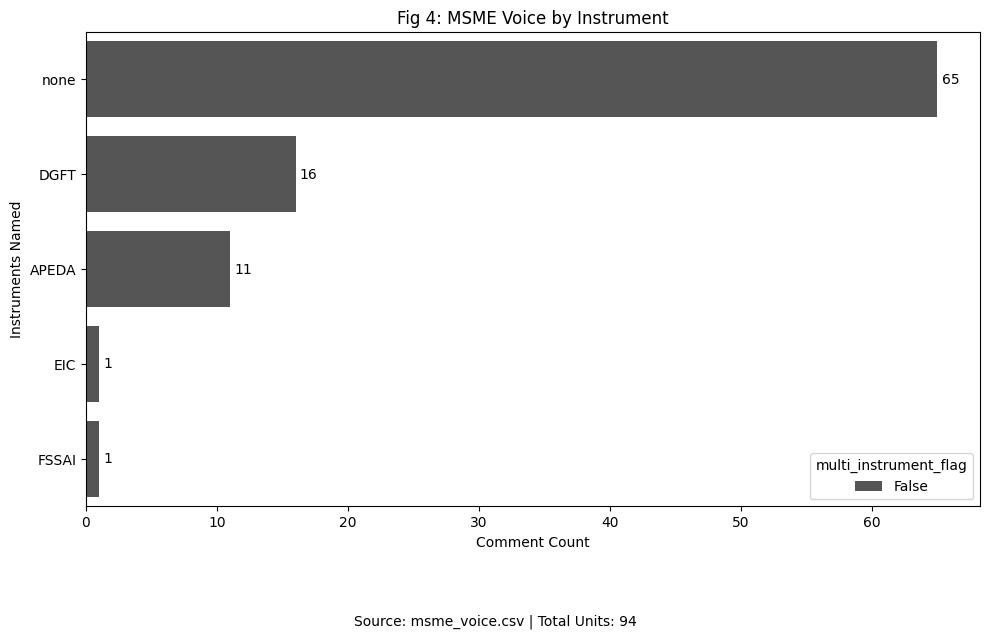
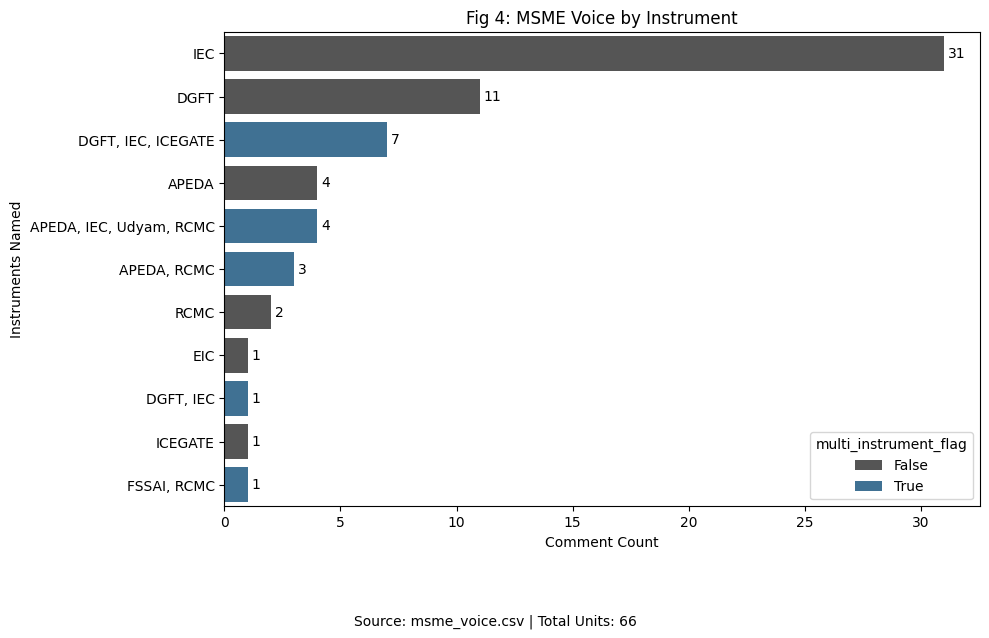
Update MSME voice generation with explicit instrument filtering rules

diff --git a/src/data-processing/generate_msme_voice.py b/src/data-processing/generate_msme_voice.py
@@ -12,7 +12,7 @@ def main():
     udyam_verified = ["B-YT-024", "B-YT-026", "B-YT-027", "B-YT-032"]
     
     # Identify multi-instrument keywords
-    instrument_keywords = ["FSSAI", "APEDA", "MPEDA", "DGFT", "Spices Board", "EIC", "EUDR", "CSDDD", "TraceNet", "CSRD", "FDA"]
+    instrument_keywords = ["FSSAI", "APEDA", "MPEDA", "DGFT", "Spices Board", "EIC", "EUDR", "CSDDD", "TraceNet", "CSRD", "FDA", "IEC", "Udyam", "RCMC", "ICEGATE"]
     
     records = []
     comment_idx = 1
@@ -57,26 +57,11 @@ def main():
                 
     df_all = pd.DataFrame(records)
     
-    # Filtering rule: We keep quotes that mention at least one recognized instrument keyword (FSSAI, APEDA, MPEDA, DGFT, Spices Board, EIC, EUDR, CSDDD, TraceNet, CSRD, FDA, IEC, Udyam, RCMC)
-    additional_kws = ["iec", "udyam", "rcmc", "dsc", "portal", "customs", "export", "certification"]
+    # Filtering rule: Keep ONLY quotes that mention at least one recognized instrument keyword
+    df_filtered = df_all[df_all['instruments_named'] != "none"].copy()
     
-    def is_relevant(row):
-        text = row['comment_text'].lower()
-        if row['instruments_named'] != "none": return True
-        for kw in additional_kws:
-            if kw in text: return True
-        return False
-        
-    df_filtered = df_all[df_all.apply(is_relevant, axis=1)].copy()
-    
-    if len(df_filtered) >= 94:
-        df_filtered = df_filtered.head(94)
-    else:
-        needed = 94 - len(df_filtered)
-        remaining = df_all[~df_all.index.isin(df_filtered.index)].head(needed)
-        df_filtered = pd.concat([df_filtered, remaining])
-        
-    df_filtered = df_filtered.reset_index(drop=True)
+    # Sort by multi_instrument_flag first (True first)
+    df_filtered = df_filtered.sort_values(by=['multi_instrument_flag', 'record_id'], ascending=[False, True]).reset_index(drop=True)
     df_filtered['comment_id'] = [f"C{i+1:03d}" for i in range(len(df_filtered))]
     
     df_filtered.to_csv(out_path, index=False)
